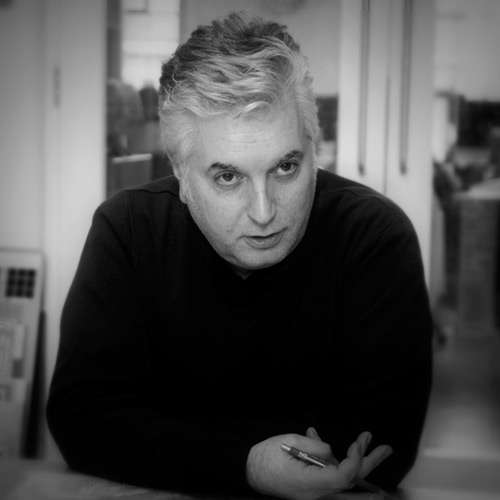
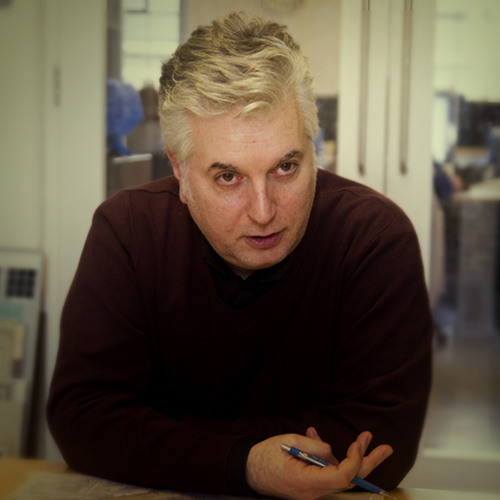
THE TEAM: Replace images with new ones provided by client

diff --git a/wp-content/themes/twentythirteen-child/page-80.php b/wp-content/themes/twentythirteen-child/page-80.php
@@ -10,7 +10,7 @@
                             <span class="team-member-name">Jon Dover</span>
                             <span class="team-member-role">Managing Director</span>
                         </div>
-                        <img src="<?php echo get_stylesheet_directory_uri() ?>/assets/content/team/team_jon.jpg">
+                        <img src="<?php echo get_stylesheet_directory_uri() ?>/assets/content/team/team_jon.jpg?v=2">
                     </div>
                 </div>
 
@@ -20,7 +20,7 @@
                             <span class="team-member-name">George Georgiou</span>
                             <span class="team-member-role">Creative Director</span>
                         </div>
-                        <img src="<?php echo get_stylesheet_directory_uri() ?>/assets/content/team/team_george.jpg">
+                        <img src="<?php echo get_stylesheet_directory_uri() ?>/assets/content/team/team_george.jpg?v=2">
                     </div>
                 </div>
 
@@ -30,7 +30,7 @@
                             <span class="team-member-name">David McDougall</span>
                             <span class="team-member-role">Executive Director</span>
                         </div>
-                        <img src="<?php echo get_stylesheet_directory_uri() ?>/assets/content/team/team_david.jpg">
+                        <img src="<?php echo get_stylesheet_directory_uri() ?>/assets/content/team/team_david.jpg?v=2">
                     </div>
                 </div>
 
@@ -51,7 +51,7 @@
                     </div>
                 </div>
 
-                <div class="grid_item c2 bandw"><img src="<?php echo get_stylesheet_directory_uri() ?>/assets/content/team/team_15.jpg"></div>
+                <div class="grid_item c2 bandw"><img src="<?php echo get_stylesheet_directory_uri() ?>/assets/content/team/team_15.jpg?v=2"></div>
                 <div class="grid_item c4 bandw"><img src="<?php echo get_stylesheet_directory_uri() ?>/assets/content/team/team_11.jpg"></div>
                 <div class="grid_item c4 bandw"><img src="<?php echo get_stylesheet_directory_uri() ?>/assets/content/team/team_14.jpg"></div>
                 <div class="grid_item c4 bandw"><img src="<?php echo get_stylesheet_directory_uri() ?>/assets/content/team/team_8.jpg"></div>
